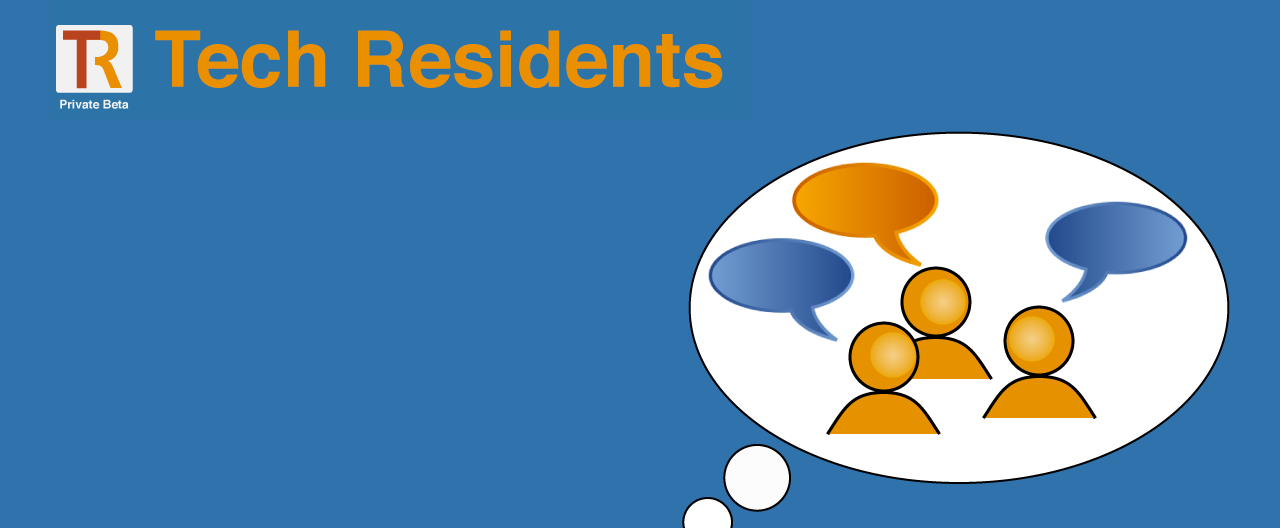
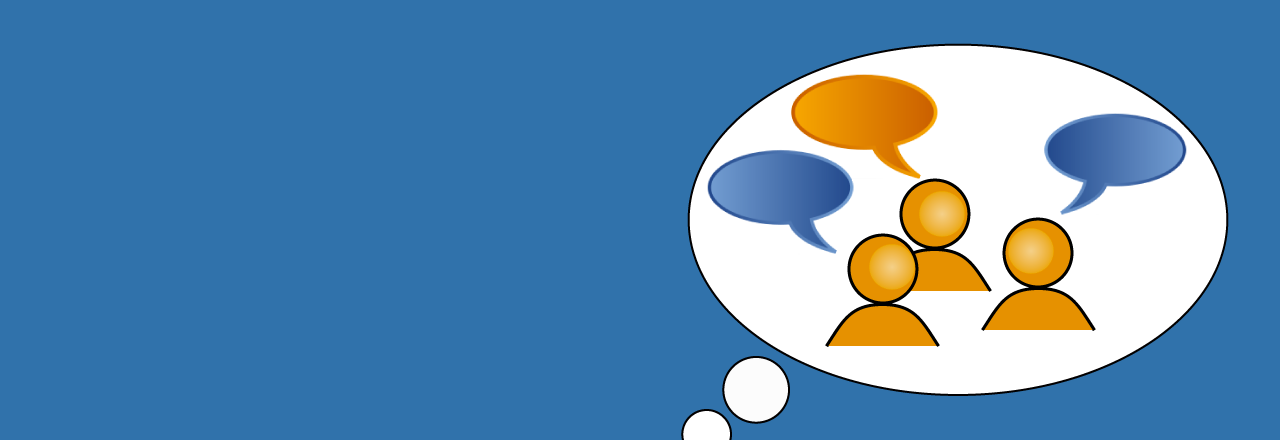
Added the navbar to the landing page.

Changed region(s): [[0.5312, 0.0886, 0.9688, 0.9159], [0.0312, 0.0295, 0.5625, 0.2068], [0.5312, 0.9159, 0.625, 0.975]]

diff --git a/common/templates/common/landing.html b/common/templates/common/landing.html
@@ -1,107 +1,63 @@
+{% extends "navbar_unauthenticated.html" %}
 {% load staticfiles %}
 {% load url from future %}
 
-<!DOCTYPE html>
-<html lang="en">
-
 {% block extrahead %}
-<!--
-<script src="{% static "js/3ps/swfobject/swfobject.js" %}"></script>
-<script type="text/javascript">
-var videoID = "ylLzyHk54Z0"
-var params = { allowScriptAccess: "always" };
-var atts = { id: "ytPlayer" };
-swfobject.embedSWF("http://www.youtube.com/v/" + videoID + "?version=3&enablejsapi=1&playerapiid=player1&modestbranding=1",
-                   "videoDiv", "480", "295", "9", null, null, params, atts);
-</script>
--->
+    <link href="{% static "css/landing.css" %}" rel="stylesheet">
 {% endblock %}
 
-    <head>
-        <meta charset="utf-8">
-        <title>Welcome to Tech Residents</title>
-        <meta name="description" content="">
-        <meta name="author" content="">
+{% block content %}
 
-        <!-- Le HTML5 shim, for IE6-8 support of HTML elements -->
-        <!--[if lt IE 9]>
-            <script src="http://html5shim.googlecode.com/svn/trunk/html5.js"></script>
-            <![endif]-->
+    <div id="landing-blue-stripe">
 
-        <!-- Le styles -->
-        <link href="{% static "css/3ps/bootstrap/css/bootstrap.css" %}" rel="stylesheet">
-        <link href="{% static "css/techresidents.css" %}" rel="stylesheet">
-        <link href="{% static "css/landing.css" %}" rel="stylesheet">
-
-        <!-- Le fav and touch icons -->
-        <link rel="shortcut icon" type="image/x-icon" href="{% static "favicon.ico" %}">
-    </head>
-
-    <body>
-
-        <div id="landing-blue-stripe">
-
-            <div id="landing-blue-stripe-top-right">
-                <div class="container">
-                    <div class="row">
-                        <div class="span1 offset11">
-                            <h2>
-                                <a id="landing-login-button" class="landing-text" href="{% url 'accounts.views.login'%}">Login</a>
-                            </h2>
-                        </div>
+        <div id="landing-blue-stripe-middle">
+            <div id="landing-messaging-container" class="container">
+                <div class="row">
+                    <div class="span9">
+                        <h1 class="landing-text-orange landing-brand-text">Tech Residents</h1>
+                        <h1 class="landing-text landing-messaging-text">
+                            Discuss. Be Heard. Get Hired.
+                        </h1>
                     </div>
                 </div>
             </div>
-            <div id="landing-blue-stripe-middle">
-                <div id="landing-messaging-container" class="container">
-                    <div class="row">
-                        <div class="span9">
-                            <h1 class="landing-text landing-messaging-text">
-                                Discuss. Be Heard. Get Hired.
-                            </h1>
-                        </div>
-                    </div>
-                </div>
-                <div id="landing-details-container" class="container">
-                    <div class="row">
-                        <div class="span7">
+            <div id="landing-details-container" class="container">
+                <div class="row">
+                    <div class="span7">
                             <span class="landing-text landing-messaging-details-text">
                                 A free platform for software developers to talk tech and showcase their talent to hiring companies.
                             </span>
-                        </div>
                     </div>
                 </div>
             </div>
         </div>
+    </div>
 
-        <div id="landing-white-stripe">
-            <div id="landing-signup-container" class="container">
-                <div class="row">
-                    <div class="span7 offset2">
-                        <h1 class="landing-messaging-text">
-                            Join the conversation
-                        </h1>
-                    </div>
-                    <div class="span2">
-                        <a id="landing-signup-button" class="btn btn-large btn-success" href="{% url 'accounts.views.register'%}">Sign Up</a>
-                    </div>
+    <div id="landing-white-stripe">
+        <div id="landing-signup-container" class="container">
+            <div class="row">
+                <div class="span7 offset2">
+                    <h1 class="landing-signup-text">
+                        Join the conversation
+                    </h1>
                 </div>
-                <div class="row">
-                    <div class="span2 offset7">
-                        <h1 class="landing-signup-details-text">
-                            It's free
-                        </h1>
-                    </div>
-                    <div class="span2">
-                        <a id="landing-learn-more-button" class="btn btn-primary btn-large" href="{% url 'common.views.learn_more'%}">Learn More</a>
-                    </div>
+                <div class="span2">
+                    <a id="landing-signup-button" class="btn btn-large btn-success" href="{% url 'accounts.views.register'%}">Sign Up</a>
+                </div>
+            </div>
+            <div class="row">
+                <div class="span2 offset7">
+                    <h1 class="landing-signup-details-text">
+                        It's free
+                    </h1>
+                </div>
+                <div class="span2">
+                    <a id="landing-learn-more-button" class="btn btn-primary btn-large" href="{% url 'common.views.learn_more'%}">Learn More</a>
                 </div>
             </div>
         </div>
+    </div>
 
-       {% include 'footer.html' %}
+{% endblock %}
 
-    </body>
-
-</html>
 

diff --git a/common/static/css/landing.css b/common/static/css/landing.css
@@ -1,5 +1,5 @@
 #landing-blue-stripe {
-    height: 528px;
+    height: 440px;
     background-color: #2A73A7;
     background-image: url(../img/landing-background-blue-stripe-only.png);
     background-repeat: no-repeat;
@@ -13,7 +13,7 @@
 }
 
 #landing-blue-stripe-middle {
-    padding-top: 60px;
+    padding-top: 20px;
 }
 
 #landing-signup-container {
@@ -23,28 +23,38 @@
 #landing-messaging-container {
     margin-left: 50px;
     margin-right: 0px;
-    margin-top: 0px;
+    margin-top: 15px;
     margin-bottom: 0px;
 }
 
 #landing-details-container {
     margin-left: 80px;
     margin-right: 0px;
-    margin-top: 30px;
+    margin-top: 10px;
     margin-bottom: 0px;
 }
-
 
 
 .landing-text {
     color: white;
 }
 
+.landing-text-orange {
+    color: #EA8F00;
+}
+
+.landing-brand-text {
+    font-weight: bold;
+    font-family: Arial;
+    font-size: 65px;
+    line-height: 1;
+}
+
 .landing-messaging-text {
     font-weight: bold;
     font-family: Arial;
-    font-size: 45px;
-    line-height: 48pt;
+    font-size: 41px;
+    line-height: 45pt;
 }
 
 .landing-messaging-details-text {
@@ -52,6 +62,12 @@
     font-family: Helvetica;
     font-size: 30px;
     line-height: 33pt;
+}
+
+.landing-signup-text {
+    font-weight: bold;
+    font-family: Arial;
+    font-size: 45px;
 }
 
 .landing-signup-details-text {
@@ -73,6 +89,6 @@
 
 #landing-learn-more-button {
     margin-top: 10px;
-    padding-left: 21px;
-    padding-right: 21px;
+    padding-left: 19px;
+    padding-right: 19px;
 }
